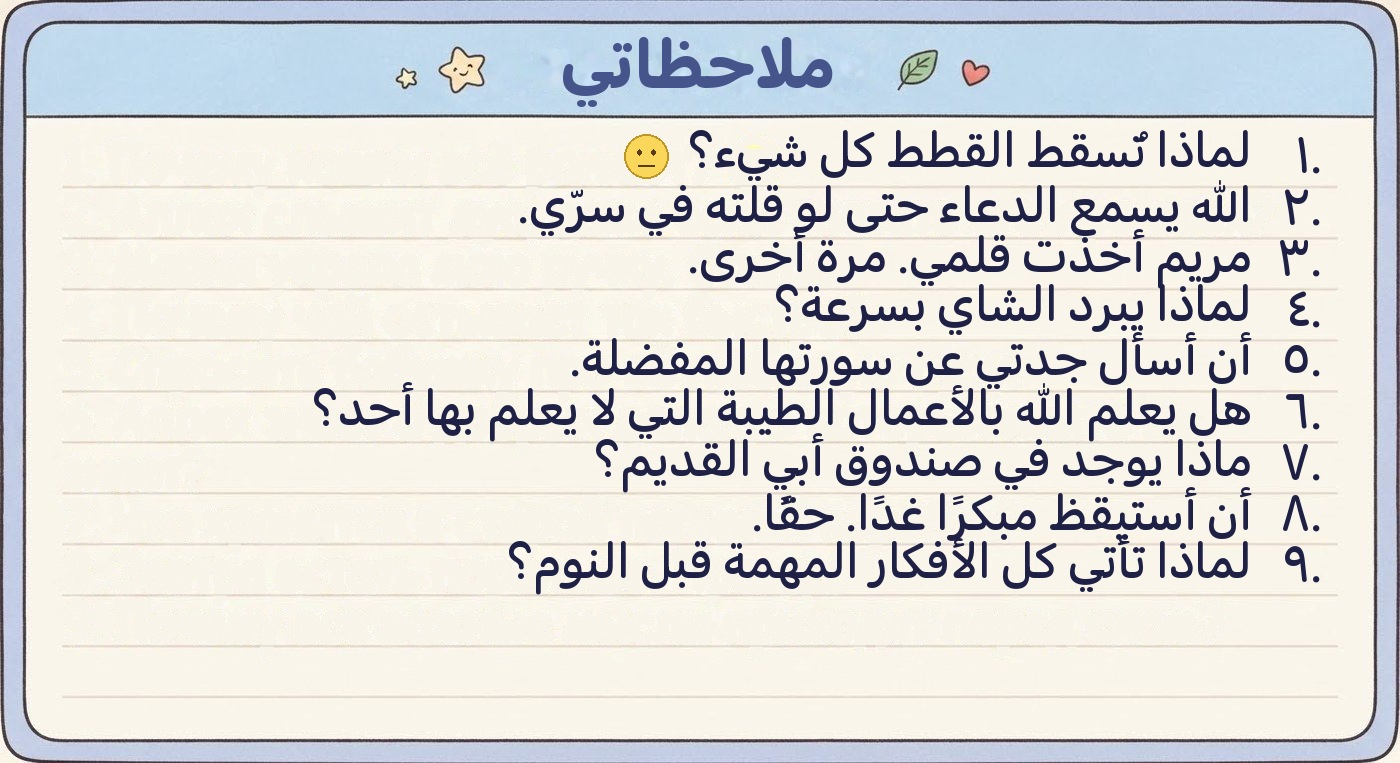
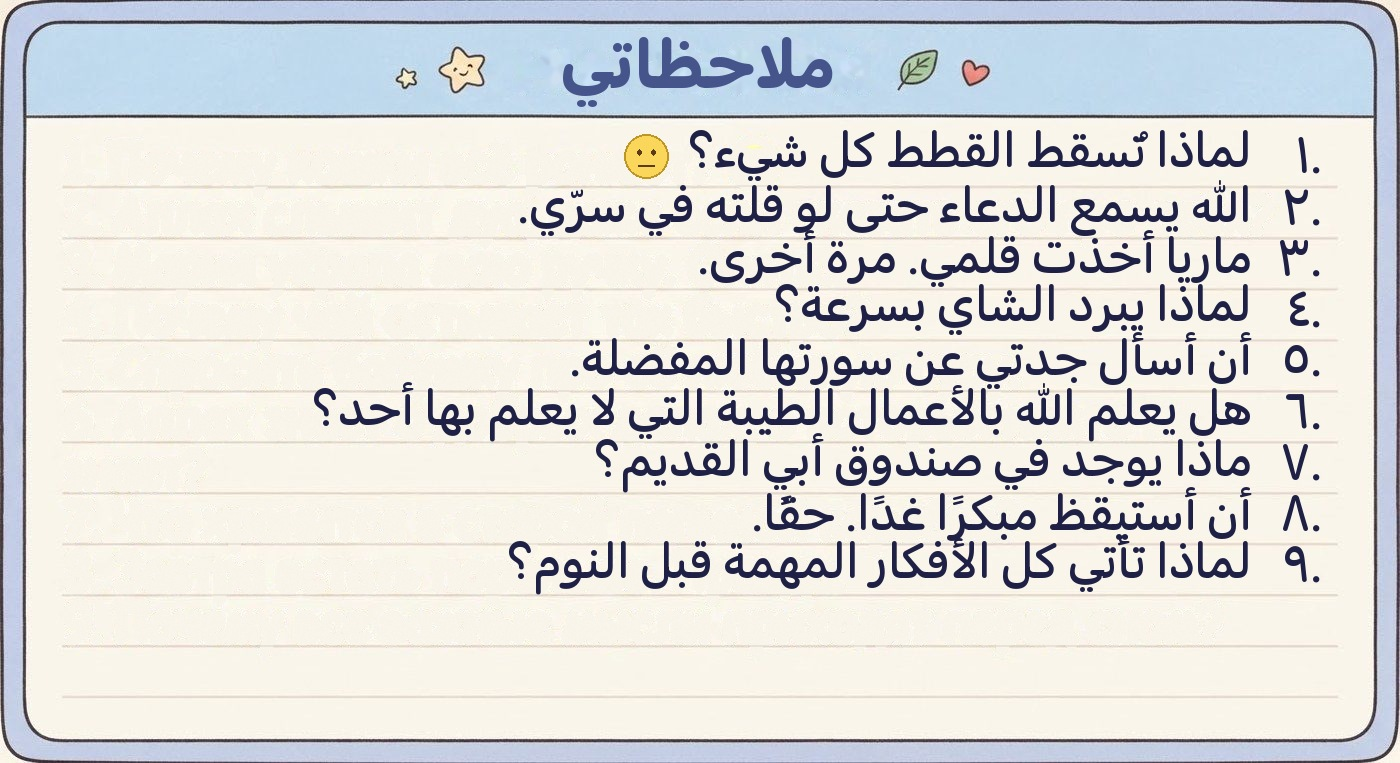
Arabic: sister's name is Maria (ماريا) in the Nor line and in the notes picture

Changed region(s): [[0.4914, 0.3014, 0.8907, 0.3919]]

diff --git a/Web-ar/game.js b/Web-ar/game.js
@@ -616,7 +616,7 @@ afterFirstPicture(() => Object.values(COMPASS_BY_WALL).forEach(src => { new Imag
 // computer pictures are decoded ahead of time: opening an app or a photo must never wait for a download
 afterFirstPicture(() => [
   'assets/img/room3/apps/cookies.jpg?v=3',
-  'assets/img/room3/apps/doc-notes.jpg?v=3',
+  'assets/img/room3/apps/doc-notes.jpg?v=4',
   'assets/img/room3/apps/doc-room-map.webp?v=3',
   'assets/img/room3/apps/games-blocked.jpg?v=3',
   'assets/img/room3/apps/photo-1.jpg?v=1',
@@ -1352,11 +1352,11 @@ const COMPUTER_APPS = {
   photos: { type: 'menu', items: [
     { label: 'صورة 1', src: 'assets/img/room3/apps/photo-1.jpg?v=1', line: 'هذه هي عائلتنا كلها. أتساءل كيف تمكّنا جميعًا من الظهور في صورة واحدة؟', audio: 'audio-nor12' },
     { label: 'صورة 2', src: 'assets/img/room3/apps/photo-2.jpg?v=1', line: 'أبي يعرف كيف يساعد أيضًا. لكن أمي تقول أحيانًا إن العمل يزداد بعد مساعدته!', audio: 'audio-nor13' },
-    { label: 'صورة 3', src: 'assets/img/room3/apps/photo-3.jpg?v=1', line: 'نحن نتعلم القرآن مع العائلة كلها. أختي الصغيرة مريم تتعلم معنا أيضًا، لكنها تعلّمنا الصبر أكثر!', audio: 'audio-nor17' },
+    { label: 'صورة 3', src: 'assets/img/room3/apps/photo-3.jpg?v=1', line: 'نحن نتعلم القرآن مع العائلة كلها. أختي الصغيرة ماريا تتعلم معنا أيضًا، لكنها تعلّمنا الصبر أكثر!', audio: 'audio-nor17' },
     { label: 'صورة 4', src: 'assets/img/room3/apps/photo-4.jpg?v=1', line: 'أبي وياسين يبنيان بيتًا للعصافير. آمل ألا تكون العصافير صعبة الإرضاء!', audio: 'audio-nor15' },
   ] },
   documents: { type: 'menu', items: [
-    { label: 'ملاحظاتي', src: 'assets/img/room3/apps/doc-notes.jpg?v=3', line: 'نسيت بعض الأسئلة تمامًا. جيد أنني فكرت في كتابتها.', audio: 'audio-nor14' },
+    { label: 'ملاحظاتي', src: 'assets/img/room3/apps/doc-notes.jpg?v=4', line: 'نسيت بعض الأسئلة تمامًا. جيد أنني فكرت في كتابتها.', audio: 'audio-nor14' },
     { label: 'غرفتي', src: 'assets/img/room3/apps/doc-room-map.webp?v=3', line: 'هذه غرفتي المفضلة، مخططها من الأعلى. تجادل أبي وأخي الأكبر ياسين طويلًا في مكان كل شيء، لكن أمي هي التي رتّبت كل شيء بنفسها.', audio: 'audio-nor21' },
   ] },
 };

diff --git a/Web-ar/index.html b/Web-ar/index.html
@@ -525,6 +525,6 @@
   document.head.appendChild(s);
 })();
 </script>
-<script src="game.js?v=242"></script>
+<script src="game.js?v=243"></script>
 </body>
 </html>
